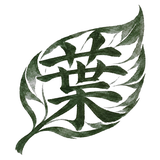
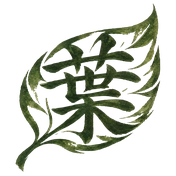
Give the green hover leaf the black leaf's exact outline
The watercolor leaf was smaller because lifting it off the paper trimmed
the faint edges of each stroke and left the paint partly see-through. It
now uses leaf.svg's outline, filled with the watercolor's own colours, so
the two leaves match exactly when they cross-fade. In dark mode it is
brightened a little rather than inverted.

Changed region(s): [[0.0625, 0.0312, 0.9375, 0.9688]]

diff --git a/assets/site.css b/assets/site.css
@@ -236,10 +236,9 @@ main { padding: 2.25rem 0 4rem; flex: 1 0 auto; }
 }
 .seal-leaf svg { fill: currentColor; }
 .seal-leaf img { opacity: 0; }
-/* The watercolor's deep greens would sink into the dark page, so in dark
-   mode its light and dark are flipped while keeping its greens: a pale
-   sage leaf that still shows the brushwork. */
-:root[data-theme="dark"] .seal-leaf img { filter: invert(1) hue-rotate(180deg) saturate(1.3); }
+/* On the dark page the watercolor is brightened a little so it doesn't sink
+   into the background. */
+:root[data-theme="dark"] .seal-leaf img { filter: brightness(1.5) saturate(1.1); }
 .seal:focus-visible { outline: 2px solid currentColor; outline-offset: 2px; }
 /* "Back to top" beside the leaf; the two are centred together. */
 .seal-label {
